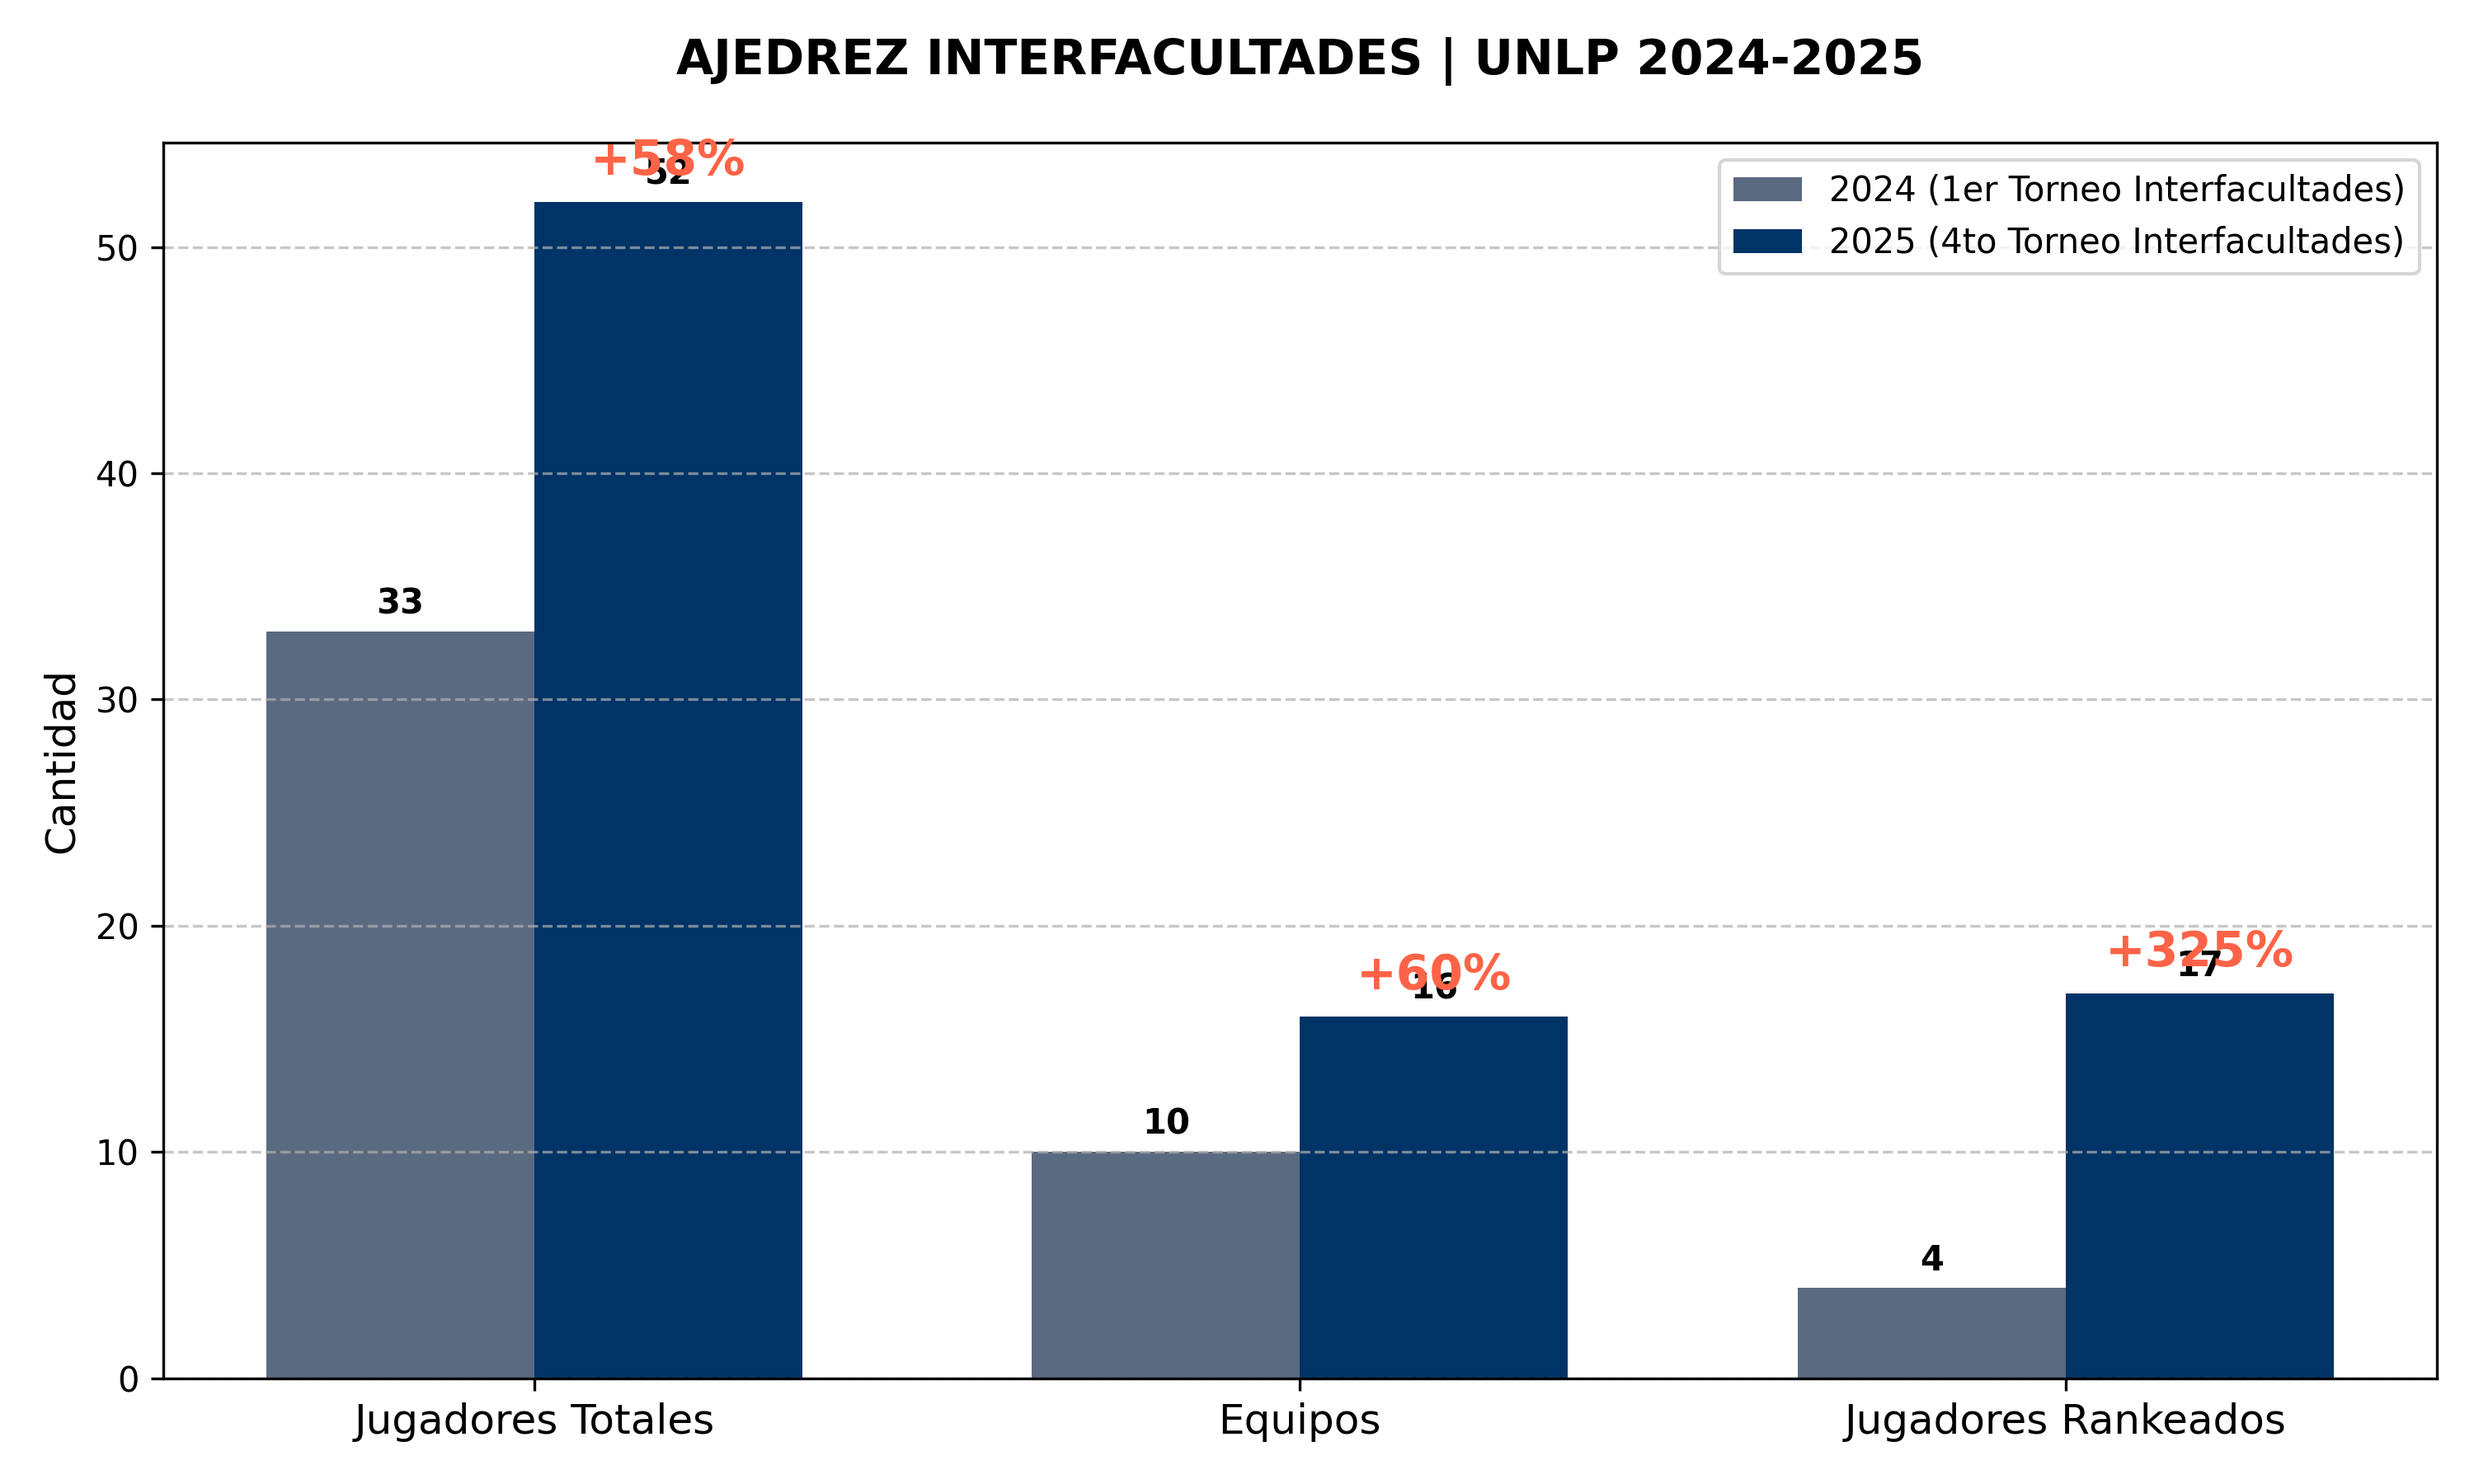
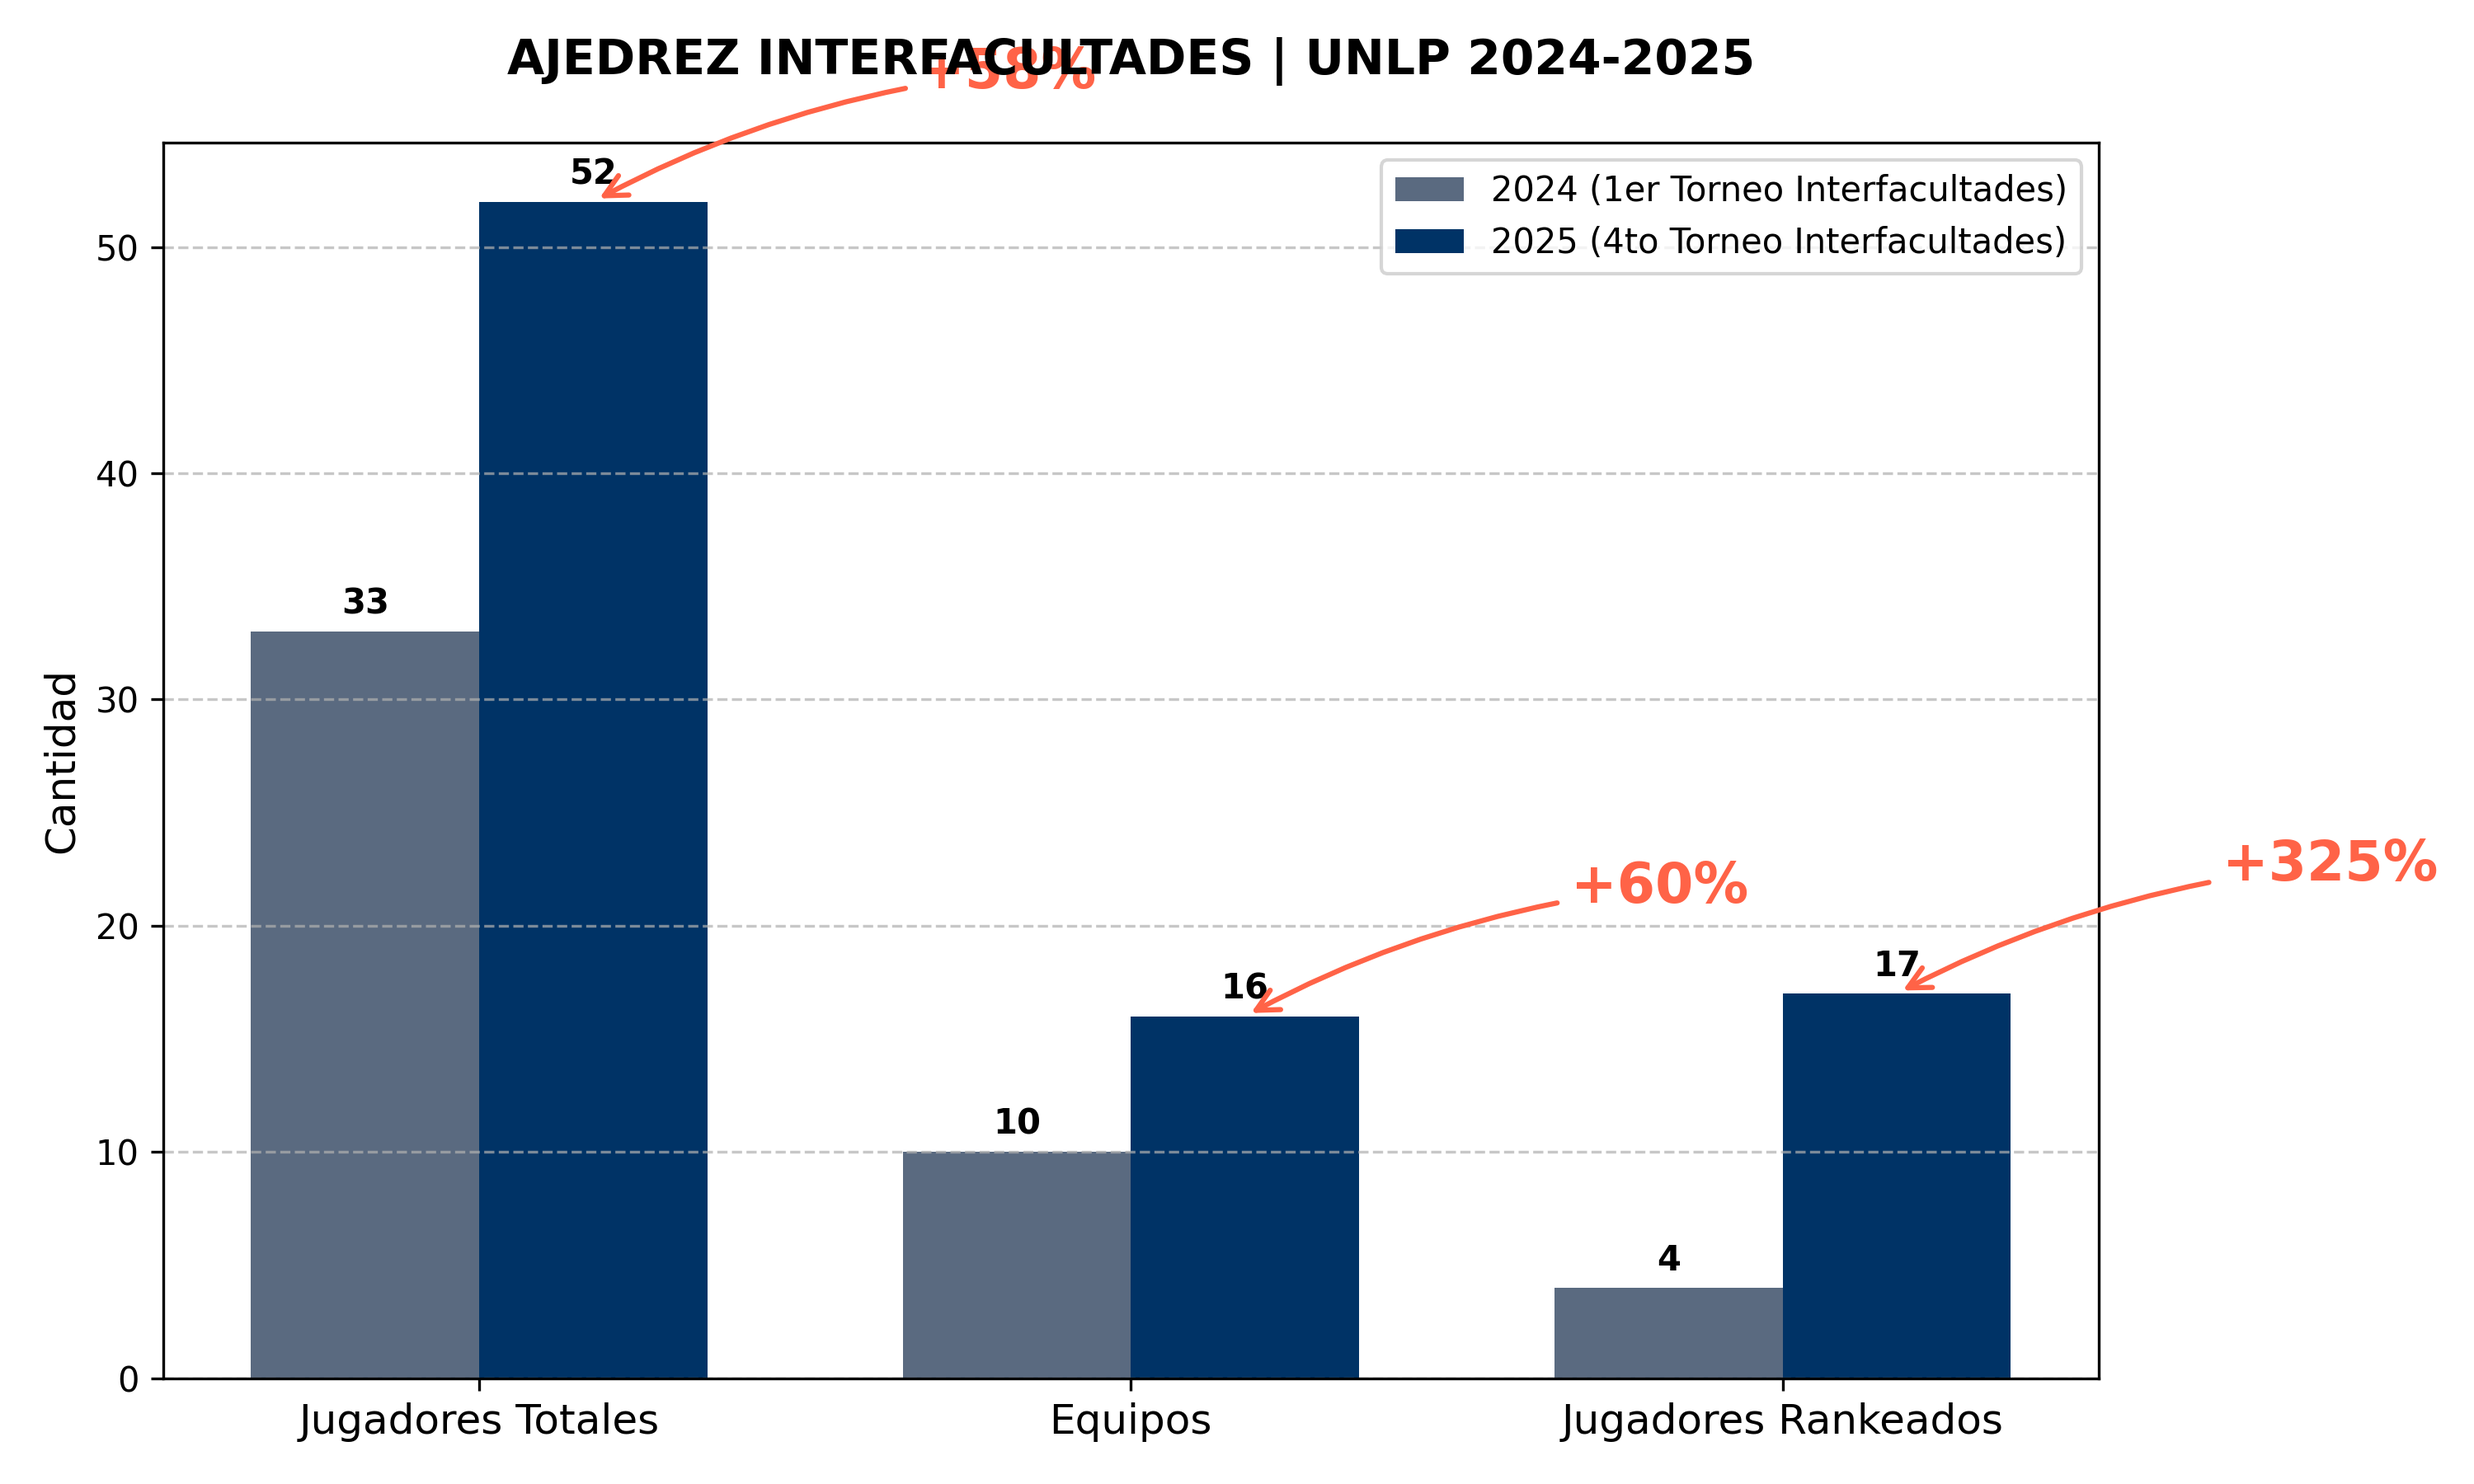
Corrección de dato resaltado por barra de variable.

diff --git a/ajedrez_unlp_dataviz_1.py b/ajedrez_unlp_dataviz_1.py
@@ -66,10 +66,7 @@ barra_2025 = ax.bar(
 )
 
 
-# --- 4. DETALLES Y ANOTACIONES DE DATOS --
 # --- 4. DETALLES Y ANOTACIONES DE DATOS ---
-
-
 # Función para añadir las etiquetas de valor sobre las barras
 def autolabel(rects, df_col):
     for rect, valor in zip(rects, df_col):
@@ -102,33 +99,45 @@ ax.set_xticks(x)
 ax.set_xticklabels(["Jugadores Totales", "Equipos", "Jugadores Rankeados"], fontsize=12)
 
 
-# --- 5. ANOTACIÓN DEL CRECIMIENTO (+XX%) ---
+# --- 5. ANOTACIÓN DEL CRECIMIENTO (+XX%) con Flechas y Resalte ---
+
+# Coordenadas y offset para la ANOTACIÓN lateral y superior
+offset_x = 0.5  # Mover 0.5 unidades a la derecha del centro de la barra 2025
+offset_y = 5  # Mover 5 unidades hacia arriba
+
 # Creamos un loop para anotar el crecimiento sobre TODAS las barras de 2025
-
+# Las anotaciones se harán en la coordenada [i] del array x, que ya está ajustado al centro de la métrica.
 for i, tasa in enumerate(tasas_crecimiento):
-    # Obtener la posición x y la altura de la barra 2025 (índice i)
-    rect = barra_2025[i]
-    posicion_x = rect.get_x() + rect.get_width() / 2
-    altura = rect.get_height()
 
+    # Obtener la posición x base y la altura de la barra 2025 (índice i)
+    rect = barra_2025[i]
+
+    # x_start es el centro de la barra 2025
+    x_start = rect.get_x() + rect.get_width() / 2
+    altura_barra = rect.get_height()
+
+    # ANOTACIÓN DEL TEXTO (+XX%)
     ax.annotate(
         f"+{tasa:.0f}%",
-        xy=(posicion_x, altura),
-        xytext=(0, 5),  # Mover ligeramente hacia arriba
-        textcoords="offset points",
-        ha="center",
-        va="bottom",
-        fontsize=14,
+        xy=(x_start, altura_barra),  # Punto de inicio para la flecha
+        xytext=(x_start + offset_x, altura_barra + offset_y),  # Punto donde va el texto
+        textcoords="data",
+        fontsize=16,
         color=color_highlight,
         weight="heavy",
+        # Propiedades de la Flecha (Arrowprops)
+        arrowprops=dict(
+            arrowstyle="->",  # Estilo de la flecha
+            color=color_highlight,
+            lw=1.5,
+            connectionstyle="arc3,rad=0.1",  # Curva ligera para mejor visualización
+        ),
     )
 
-
-# Mostrar Leyenda y Ajustes Finales
+# Mostrar Leyenda y Ajustes Finales (Se mantiene igual)
 ax.legend()
 plt.grid(axis="y", linestyle="--", alpha=0.7)
 plt.tight_layout()
 
 plt.savefig("grafico_ajedrez_unlp_crecimiento.png", dpi=300)
-# Puedes comentar o eliminar plt.show() para evitar el UserWarning
 # plt.show()
